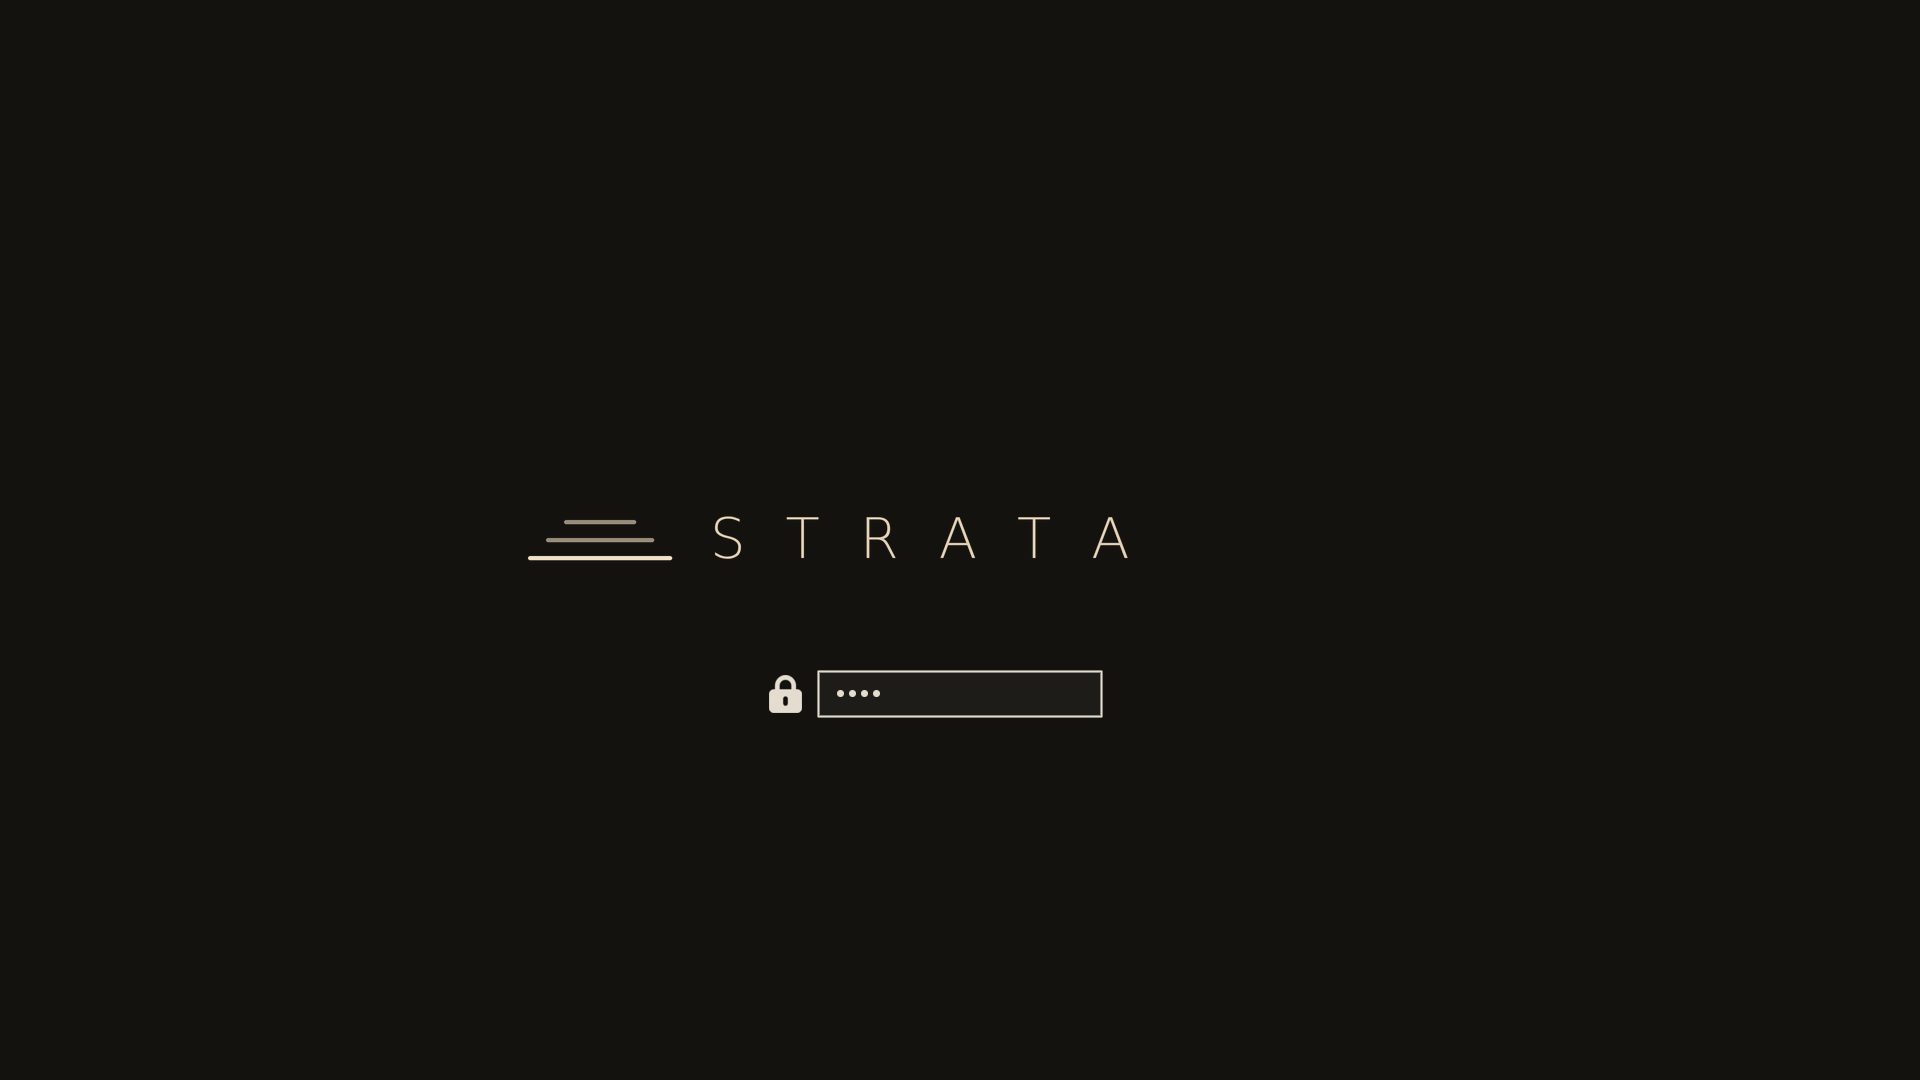
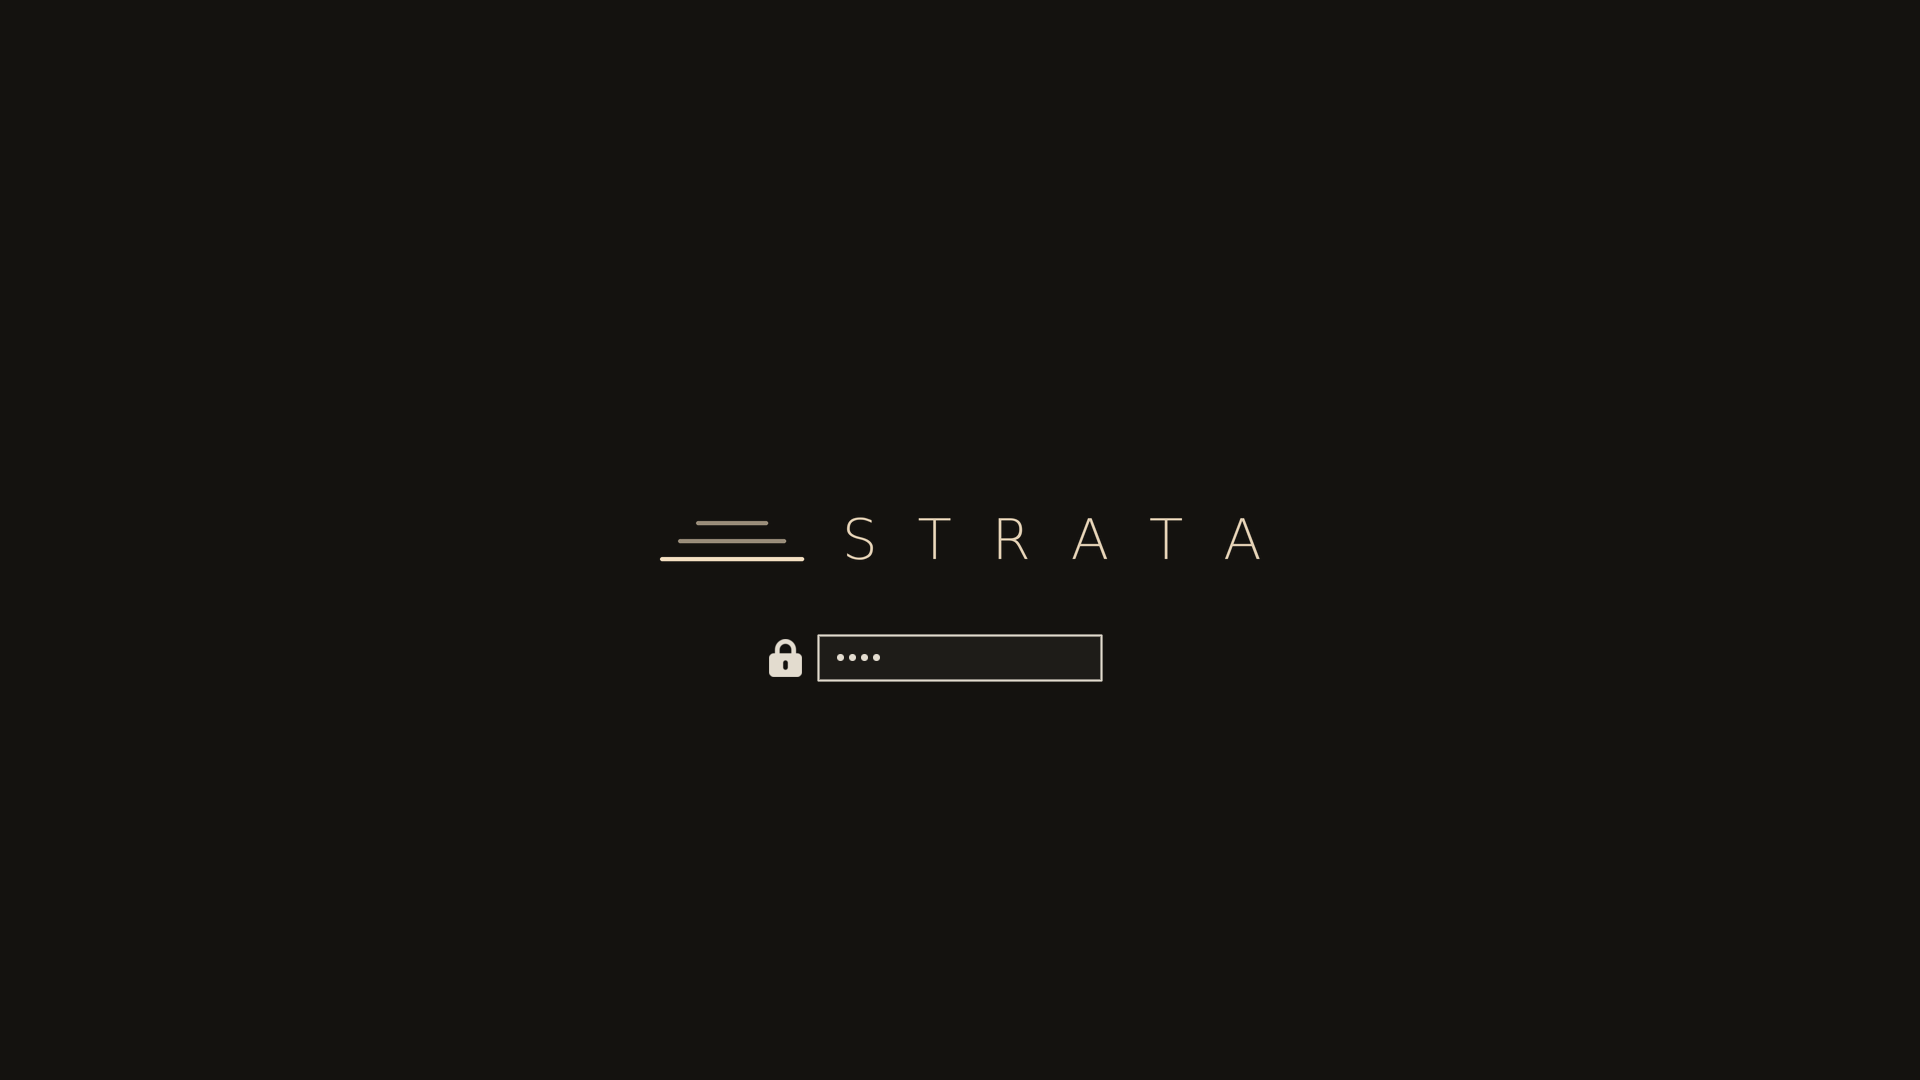
Centre the unlock marks
Plymouth centres the whole unlock.png, and every mark sat in the left part
of a 900px canvas, so all six showed off to the left. The generators now
trim each image to its visible pixels and pad it evenly (unlock_centre.py),
and the previews are rebuilt from the centred images.

Changed region(s): [[0.375, 0.5806, 0.5625, 0.6722], [0.2812, 0.4583, 0.5938, 0.5194], [0.625, 0.4889, 0.6562, 0.5194]]

diff --git a/tools/gen_unlock_carbon.py b/tools/gen_unlock_carbon.py
@@ -1,4 +1,5 @@
 import math, sys
+from unlock_centre import centre
 from PIL import Image, ImageDraw, ImageFont
 SS = 4; W, H = 900, 180
 a = Image.new("L", (W*SS, H*SS), 0); d = ImageDraw.Draw(a)
@@ -11,4 +12,4 @@ font = ImageFont.truetype("/usr/share/fonts/TTF/DejaVuSans-ExtraLight.ttf", 56*S
 x = 200*SS
 for ch in "CARBON":
     d.text((x, 56*SS), ch, font=font, fill=230); x += font.getlength(ch) + 40*SS
-img = Image.new("RGBA", (W, H), (255, 214, 196, 0)); img.putalpha(a.resize((W, H), Image.LANCZOS)); img.save(sys.argv[1])
+img = Image.new("RGBA", (W, H), (255, 214, 196, 0)); img.putalpha(a.resize((W, H), Image.LANCZOS)); centre(img).save(sys.argv[1])

diff --git a/tools/gen_unlock_meridian.py b/tools/gen_unlock_meridian.py
@@ -1,4 +1,5 @@
 import sys
+from unlock_centre import centre
 from PIL import Image, ImageDraw, ImageFont
 SS = 4; W, H = 900, 180
 a = Image.new("L", (W*SS, H*SS), 0); d = ImageDraw.Draw(a)
@@ -12,4 +13,4 @@ font = ImageFont.truetype("/usr/share/fonts/TTF/DejaVuSans-ExtraLight.ttf", 56*S
 x = 200*SS
 for ch in "MERIDIAN":
     d.text((x, 56*SS), ch, font=font, fill=230); x += font.getlength(ch) + 26*SS
-img = Image.new("RGBA", (W, H), (214, 236, 255, 0)); img.putalpha(a.resize((W, H), Image.LANCZOS)); img.save(sys.argv[1])
+img = Image.new("RGBA", (W, H), (214, 236, 255, 0)); img.putalpha(a.resize((W, H), Image.LANCZOS)); centre(img).save(sys.argv[1])

diff --git a/tools/gen_unlock_graphite.py b/tools/gen_unlock_graphite.py
@@ -1,5 +1,6 @@
 """Graphite unlock.png: open 'G' ring with a blue light bar, and the wordmark."""
 import sys
+from unlock_centre import centre
 from PIL import Image, ImageDraw, ImageFont
 
 SS = 4; W, H = 900, 180
@@ -22,4 +23,4 @@ for ch in "GRAPHITE":
 grey = grey.resize((W, H), Image.LANCZOS); blue = blue.resize((W, H), Image.LANCZOS)
 pale = Image.new("RGBA", (W, H), (228, 232, 238, 0)); pale.putalpha(grey)
 light = Image.new("RGBA", (W, H), (143, 191, 255, 0)); light.putalpha(blue)
-Image.alpha_composite(pale, light).save(sys.argv[1])
+centre(Image.alpha_composite(pale, light)).save(sys.argv[1])

diff --git a/tools/unlock_centre.py b/tools/unlock_centre.py
@@ -1,0 +1,16 @@
+"""Trim an unlock.png to its visible pixels and pad it evenly.
+
+Plymouth centres the whole image, so any empty margin on one side pushes the
+mark off centre. Every gen_unlock_*.py passes its image through centre().
+"""
+from PIL import Image
+
+PAD = 30
+
+
+def centre(img: Image.Image, pad: int = PAD) -> Image.Image:
+    box = img.getchannel("A").getbbox()
+    mark = img.crop(box)
+    out = Image.new("RGBA", (mark.width + 2 * pad, mark.height + 2 * pad), img.getpixel((0, 0))[:3] + (0,))
+    out.paste(mark, (pad, pad))
+    return out

diff --git a/tools/gen_unlock_strata_northline.py b/tools/gen_unlock_strata_northline.py
@@ -1,4 +1,5 @@
 import sys
+from unlock_centre import centre
 from PIL import Image, ImageDraw, ImageFont
 which, out = sys.argv[1], sys.argv[2]
 SS = 4; W, H = 900, 180
@@ -22,4 +23,4 @@ for ch in text:
     dg.text((x, 56*SS), ch, font=font, fill=230); x += font.getlength(ch) + track*SS
 from PIL import ImageChops
 a = ImageChops.lighter(grey, lit).resize((W, H), Image.LANCZOS)
-img = Image.new("RGBA", (W, H), col + (0,)); img.putalpha(a); img.save(out)
+img = Image.new("RGBA", (W, H), col + (0,)); img.putalpha(a); centre(img).save(out)

diff --git a/tools/gen_unlock_umbra.py b/tools/gen_unlock_umbra.py
@@ -1,4 +1,5 @@
 import sys
+from unlock_centre import centre
 from PIL import Image, ImageDraw, ImageFont, ImageChops
 SS = 4; W, H = 900, 180
 a = Image.new("L", (W*SS, H*SS), 0); d = ImageDraw.Draw(a)
@@ -15,4 +16,4 @@ for ch in "UMBRA":
     x += font.getlength(ch) + 40*SS
 a = a.resize((W, H), Image.LANCZOS)
 img = Image.new("RGBA", (W, H), (214, 228, 255, 0)); img.putalpha(a)
-img.save(sys.argv[1])
+centre(img).save(sys.argv[1])

diff --git a/README.md b/README.md
@@ -64,7 +64,7 @@ NumPy and Pillow. The scripts are in [`tools/`](tools/):
 | `gen_umbra.py` | Umbra |
 | `gen_meridian.py` | Meridian |
 | `gen_marks.py` | The first logo studies (Strata, Umbra, Meridian, Northline) |
-| `gen_unlock_*.py` | `unlock.png` for each theme |
+| `gen_unlock_*.py` | `unlock.png` for each theme, trimmed and centred by `unlock_centre.py` |
 
 Run them with [uv](https://docs.astral.sh/uv/) so nothing is installed globally,
 for example:
